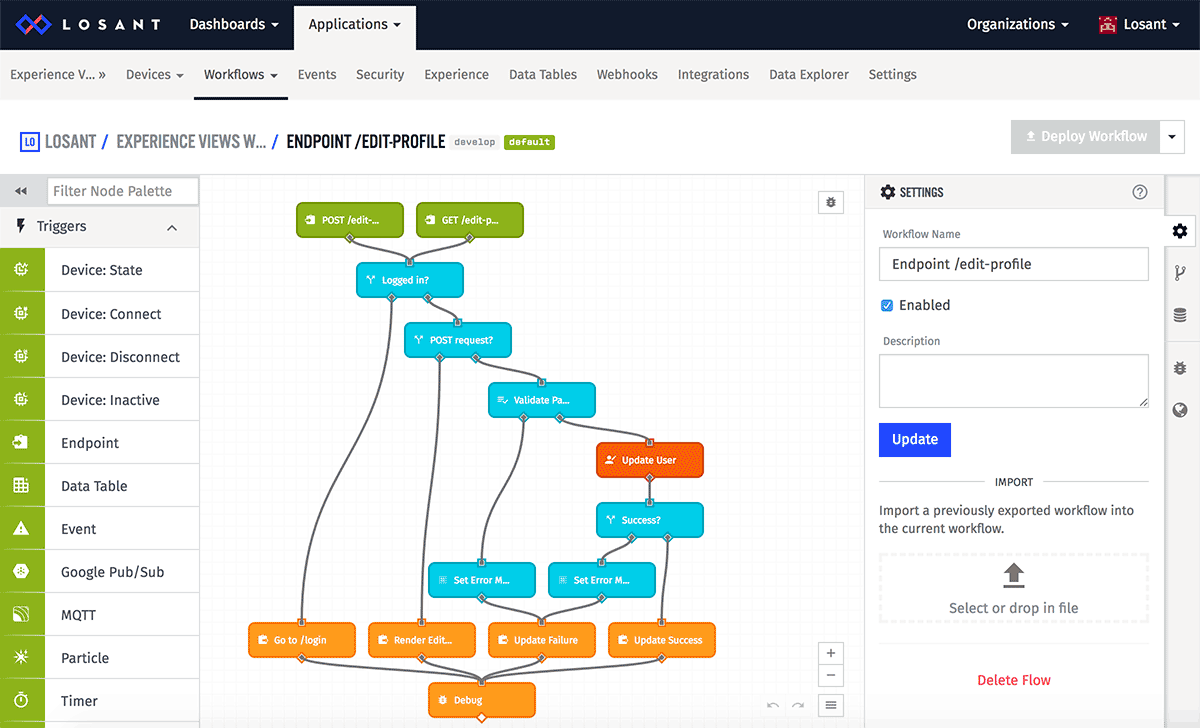
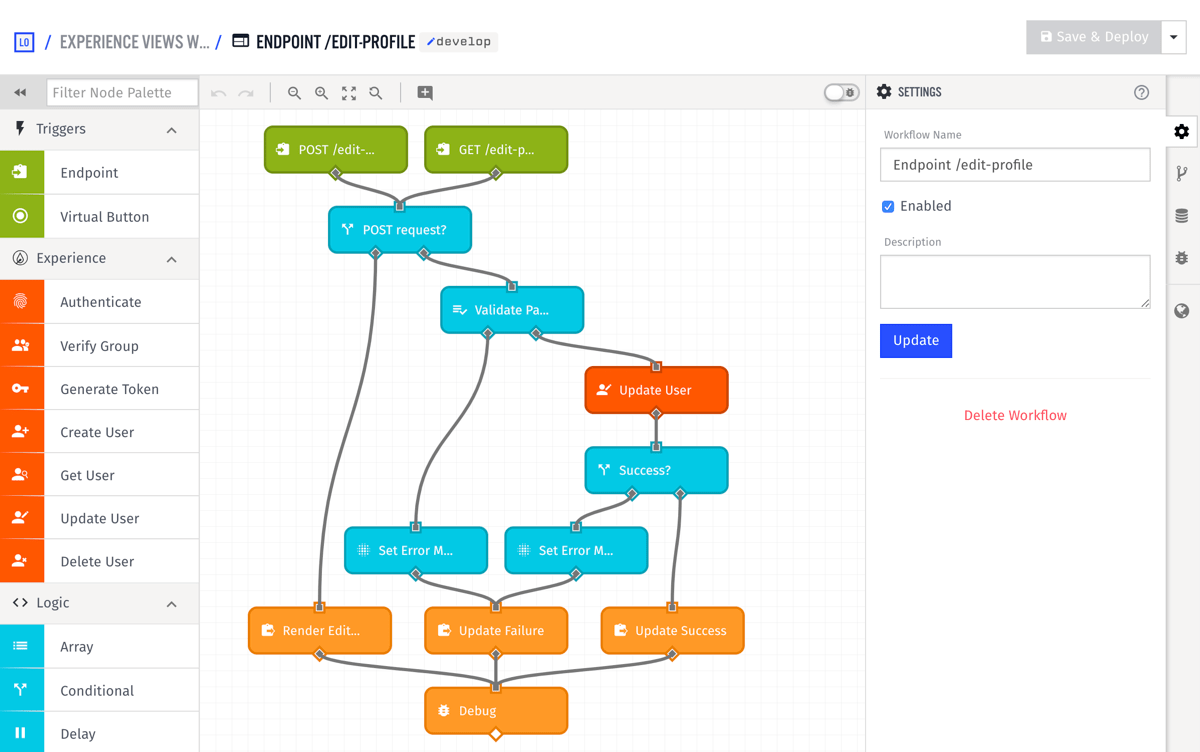
redo views walkthrough part 5

diff --git a/docs/experiences/walkthrough/views/user-profile.md b/docs/experiences/walkthrough/views/user-profile.md
@@ -16,7 +16,8 @@ This endpoint is responsible for handling requests to view the "Edit Profile" pa
 
 1. Leave the `Method` set as `GET`.
 1. Set the `Route` to `/edit-profile`.
-1. Change the `Access Control` to `All public users`.
+1. Change the `Access Control` to `Any authenticated user`.
+1. Set the `Unauthorized Reply Type` to `Redirect`, with a `Status Code` of `302` and a `Path` of `/login`.
 
 Save the route, then return to the endpoints list page and click "Add Endpoint" to add the next route.
 
@@ -26,7 +27,8 @@ This endpoint is responsible for handling form submissions from the "Edit Profil
 
 1. Set the `Method` to `POST`.
 1. Set the `Route` to `/edit-profile`.
-1. Change the `Access Control` to `All public users`.
+1. Change the `Access Control` to `Any authenticated user`.
+1. Set the `Unauthorized Reply Type` to `Redirect`, with a `Status Code` of `302` and a `Path` of `/login`.
 
 Same as before, save this route and back out to the endpoints list to make another one.
 
@@ -36,7 +38,8 @@ This endpoint is responsible for handling requests to view the "Change Password"
 
 1. Leave the `Method` set as `GET`.
 1. Set the `Route` to `/change-password`.
-1. Change the `Access Control` to `All public users`.
+1. Change the `Access Control` to `Any authenticated user`.
+1. Set the `Unauthorized Reply Type` to `Redirect`, with a `Status Code` of `302` and a `Path` of `/login`.
 
 <h3 id="post-change-password" style="text-transform: none">POST /change-password</h3>
 
@@ -44,7 +47,8 @@ This endpoint is responsible for handling form submissions from the "Change Pass
 
 1. Set the `Method` to `POST`.
 1. Set the `Route` to `/change-password`.
-1. Change the `Access Control` to `All public users`.
+1. Change the `Access Control` to `Any authenticated user`.
+1. Set the `Unauthorized Reply Type` to `Redirect`, with a `Status Code` of `302` and a `Path` of `/login`.
 
 ## Create the Views
 
@@ -91,7 +95,7 @@ Finally, we'll tweak the `profileForm` component we [created for user registrati
 1. Navigate to the `profileForm` component from your list of components.
 1. Replace its `Content` with **[this snippet](https://raw.githubusercontent.com/Losant/experience-views-walkthrough/master/user-profile/component-profile-form.hbs)**.
 
-We're making one significant change to the component, which can be seen just above the closing `</form>` tag: If the component is being called from the `/edit-profile` route, we are excluding the password input from the form and changing the text of the submit button. We do this by checking against the current route in the `{{#eq request.path "/create-account"}}` block helper and condionally rendering one bit of content or the other based on the route.
+We're making one significant change to the component, which can be seen just above the closing `</form>` tag: If the component is being called from the `/edit-profile` route, we are excluding the password input from the form and changing the text of the submit button. We do this by checking if there is a current user with the `{{#if experience.user}}` block helper and condionally rendering one bit of content or the other based on the route.
 
 ## Create the Workflows
 
@@ -101,13 +105,14 @@ Let's continue with the model we've followed so far by including the GET and POS
 
 ![Edit Profile Workflow](/images/experiences/walkthrough/views/user-profile/edit-profile-workflow.png "Edit Profile Workflow")
 
-1. Download the **[workflow template](https://cdn.rawgit.com/Losant/experience-views-walkthrough/9bc72bcb/user-profile/endpoint-edit-profile.flow)**, then [import the file](/workflows/overview/#import-export) `endpoint-edit-profile.flow` as a new workflow.
+1. Download the **[workflow template](https://cdn.rawgit.com/Losant/experience-views-walkthrough/9bc72bcb/user-profile/endpoint-edit-profile.flow)**, then [import the file](/workflows/overview/#import-export) `endpoint-edit-profile.flow` as a new experience workflow.
 1. Update each of the [endpoint triggers](/workflows/triggers/endpoint/) to point to the `POST /edit-profile` and `GET /edit-profile` endpoints you created [above](#create-the-endpoints).
 1. Update the [endpoint reply nodes](/workflows/outputs/endpoint-reply/) to point to your [`Edit Profile` page](#page-edit-profile).
+1. Enable the workflow (since imported workflows are by default disabled).
 
 As a general overview, this workflow handles the following:
 
-* If a user visits `/edit-profile`, we [respond to the request](/workflows/outputs/endpoint-reply/#experience-page-response) with our new `Edit Profile` page – unless the user is not logged in, in which case we [redirect](/workflows/outputs/endpoint-reply/#redirect-response) them to the [Log In page](/experiences/walkthrough/views/log-in-page/).
+* If a user visits `/edit-profile`, we [respond to the request](/workflows/outputs/endpoint-reply/#experience-page-response) with our new `Edit Profile` page.
 * When that user submits the `Edit Profile` form, we [validate](/workflows/logic/validate-payload/) that they have submitted all fields correctly. Then, we attempt to make the update. (It could fail if, for example, the user attempts to change their email address to one that is already registered to another experience user.) If either of these operations fail, we re-render the `Edit Profile` page with an error message.
 * If the [user update](/workflows/experience/update-user/) is successful, we [redirect the user](/workflows/outputs/endpoint-reply/#redirect-response) to the same URL with a `success=true` query parameter. The presence of this on the URL tells us if we should show our [`successAlert` component](#component-successalert).
 
@@ -119,13 +124,14 @@ Now let's create a workflow allowing our logged-in users to update their passwor
 
 ![Change Password Workflow](/images/experiences/walkthrough/views/user-profile/change-password-workflow.png "Change Password Workflow")
 
-1. Download the **[workflow template](https://cdn.rawgit.com/Losant/experience-views-walkthrough/f5d531da/user-profile/endpoint-change-password.flow)**, then [import the file](/workflows/overview/#import-export) `endpoint-change-password.flow` as a new workflow.
+1. Download the **[workflow template](https://cdn.rawgit.com/Losant/experience-views-walkthrough/f5d531da/user-profile/endpoint-change-password.flow)**, then [import the file](/workflows/overview/#import-export) `endpoint-change-password.flow` as a new experience workflow.
 1. Update each of the [endpoint triggers](/workflows/triggers/endpoint/) to point to the `POST /change-password` and `GET /change-password` endpoints you created [above](#create-the-endpoints).
 1. Update the [endpoint reply nodes](/workflows/outputs/endpoint-reply/) to point to your [`Change Password` page](#page-change-password).
+1. Enable the workflow (since imported workflows are by default disabled).
 
 As a general overview, this workflow handles the following:
 
-* If a user visits `/change-password`, we [respond to the request](/workflows/outputs/endpoint-reply/#experience-page-response) with our new `Change Password` page – unless the user is not logged in, in which case we [redirect](/workflows/outputs/endpoint-reply/#redirect-response) them to the [Log In page](/experiences/walkthrough/views/log-in-page/).
+* If a user visits `/change-password`, we [respond to the request](/workflows/outputs/endpoint-reply/#experience-page-response) with our new `Change Password` page.
 * When that user submits the `Change Password` form, we [validate](/workflows/logic/validate-payload/) that they have submitted valid old and new passwords. Then, we try [authenticating](/workflows/experience/authenticate/) using the old password provided by the user. If any of those checks fail, we re-render the `Change Password` page with an error message.
 * If authentication succeeds, we [change the user's password](/workflows/experience/update-user/) and display a confirmation message.
 
@@ -162,4 +168,4 @@ Now, a signed-in user can access the `/edit-profile` and `/change-password` link
 
 This concludes this tutorial, in which we've added the ability for experience users to update their profiles and change their passwords.
 
-There are plenty more tutorials to come, so check back often for more lessons on building out your application experiences.
+This concludes this tutorial, in which we've added the ability for experience visitors to register for an account and start accessing parts of the experience that were previously open only to logged-in visitors. Next, we'll build on top of what we've done here to [add a forgot password flow](/walkthrough/views/forgot-password/).
